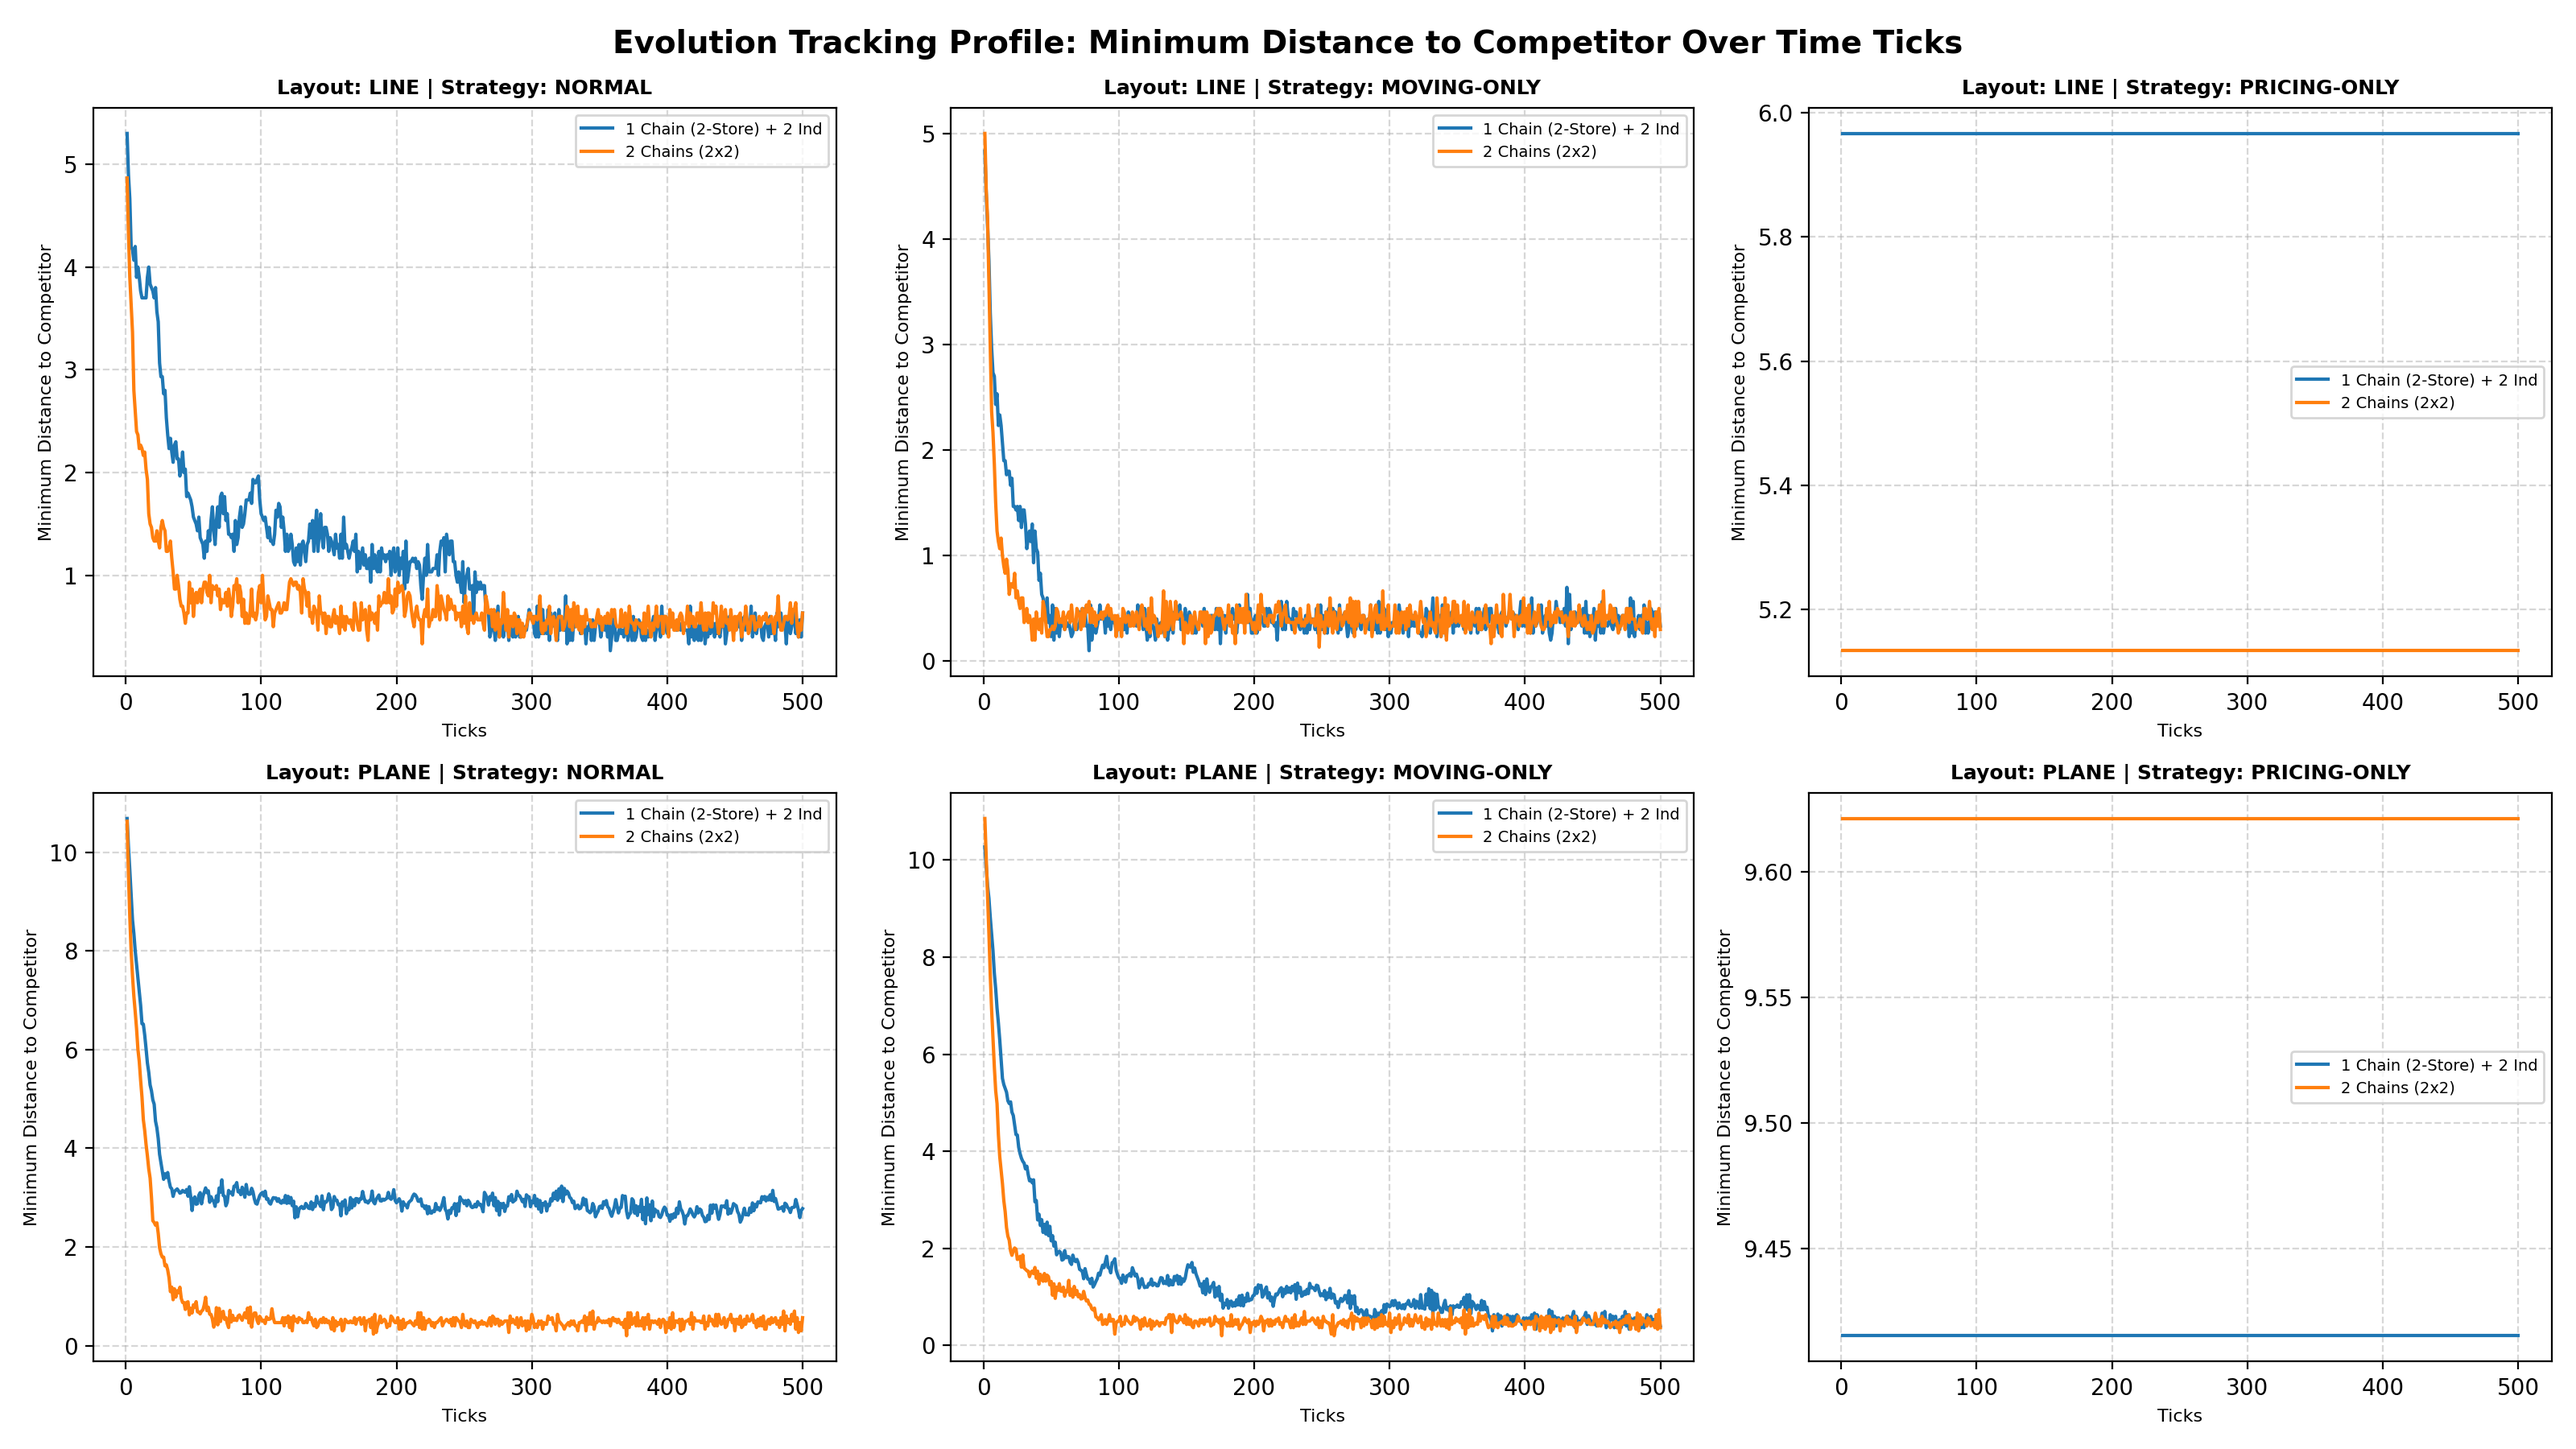
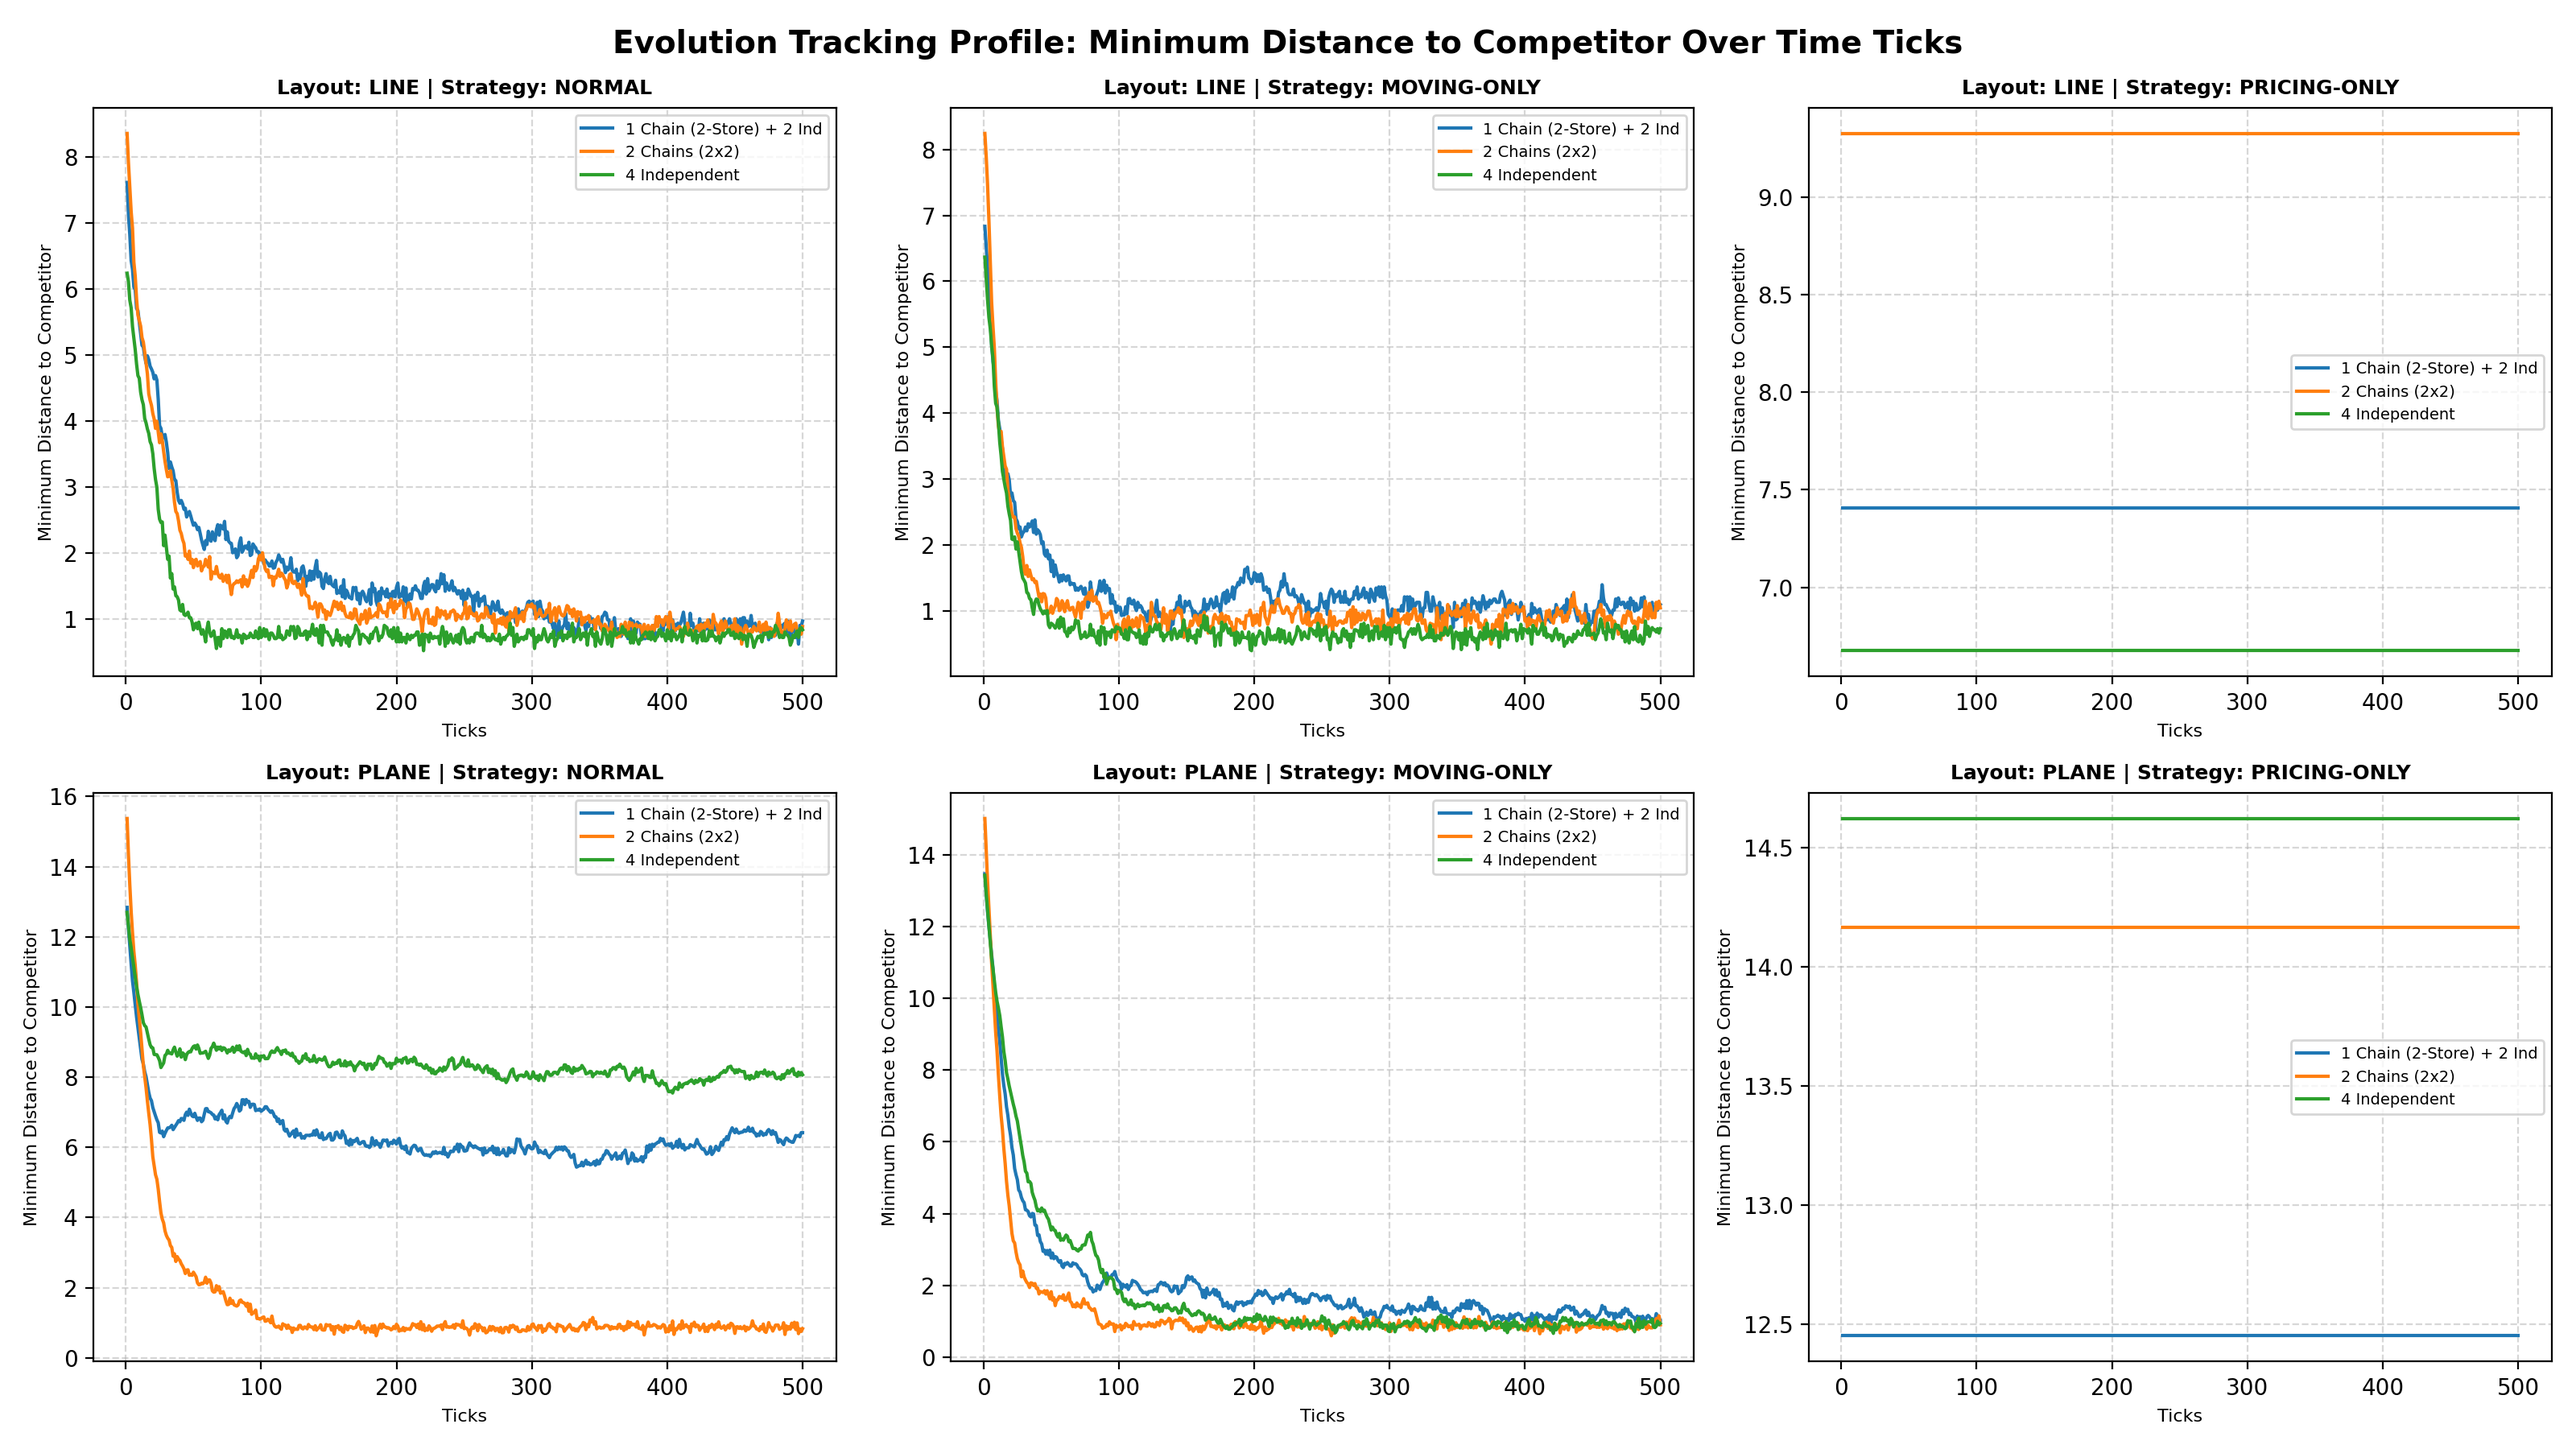
fix: update chain metrics to calculate the average distance for all stores to their nearest competitor

diff --git a/results/chart_generator_experiment2.py b/results/chart_generator_experiment2.py
@@ -10,7 +10,7 @@ os.makedirs(OUTPUT_DIRECTORY, exist_ok=True)
 
 LAYOUTS = ["line", "plane"]
 RULES = ["normal", "moving-only", "pricing-only"]
-CONFIGS = ["4 Independent", "1 Chain (2-Store) + 2 Ind", "2 Chains (2x2)"]
+CONFIGS = ["1 Chain (2-Store) + 2 Ind", "2 Chains (2x2)", "4 Independent"]
 
 # -----------------------------------------------------------------------------
 # PARSING UTILITIES
@@ -60,42 +60,47 @@ def compute_chain_metrics(row) -> tuple[float, float]:
     """Calculates intra-chain distance and minimum competitor proximity."""
     pos_map = parse_position(row["store-positions"])
     chain_groups = parse_chains(row["store-chain-ids"])
-    
-    if not chain_groups:
+
+    # Validate store id parsing.
+    store_ids = list(pos_map.keys())
+    if not store_ids:
         return np.nan, np.nan
-    
-    all_chain_stores = [sid for stores in chain_groups.values() for sid in stores]
-    hostile_stores = [sid for sid in pos_map.keys() if sid not in all_chain_stores]
-    
+
+    # Intra-chain distances
     intra_dists = []
-    min_comp_dist = float('inf')
-    
-    for chain_id, store_ids in chain_groups.items():
-        if len(store_ids) >= 2:
-            for i in range(len(store_ids)):
-                for j in range(i + 1, len(store_ids)):
-                    p1, p2 = pos_map[store_ids[i]], pos_map[store_ids[j]]
+    for chain_id, chain_store_ids in chain_groups.items():
+        if len(chain_store_ids) >= 2:
+            for i in range(len(chain_store_ids)):
+                for j in range(i + 1, len(chain_store_ids)):
+                    p1, p2 = pos_map[chain_store_ids[i]], pos_map[chain_store_ids[j]]
                     intra_dists.append(np.sqrt((p1[0]-p2[0])**2 + (p1[1]-p2[1])**2))
-                    
-        for s_id in store_ids:
-            p_curr = pos_map[s_id]
-            for h_id in hostile_stores:
-                p_hostile = pos_map[h_id]
-                dist = np.sqrt((p_curr[0]-p_hostile[0])**2 + (p_curr[1]-p_hostile[1])**2)
-                if dist < min_comp_dist:
-                    min_comp_dist = dist
-            for other_chain_id, other_store_ids in chain_groups.items():
-                if other_chain_id != chain_id:
-                    for o_id in other_store_ids:
-                        p_rival = pos_map[o_id]
-                        dist = np.sqrt((p_curr[0]-p_rival[0])**2 + (p_curr[1]-p_rival[1])**2)
-                        if dist < min_comp_dist:
-                            min_comp_dist = dist
+
+    # Map each store to its chain id (None for independent)
+    store_to_chain = {s: cid for cid, stores in chain_groups.items() for s in stores}
+
+    # For every store, compute distance to nearest competitor defined as ANY store
+    # that is not in the same chain. For independent stores (no chain id), competitors
+    # are all other stores.
+    nearest_comp_by_store = []
+    for s in list(pos_map.keys()):
+        p_s = pos_map[s]
+        same_chain = store_to_chain.get(s, None)
+
+        if same_chain is None:
+            competitors = [t for t in store_ids if t != s]
+        else:
+            competitors = [t for t in store_ids if t != s and store_to_chain.get(t, None) != same_chain]
+        assert len(competitors) != 0
+        
+        min_d = min(
+            np.sqrt((p_s[0]-pos_map[t][0])**2 + (p_s[1]-pos_map[t][1])**2) for t in competitors
+        )
+        nearest_comp_by_store.append(float(min_d))
 
     avg_intra = float(np.mean(intra_dists)) if intra_dists else np.nan
-    final_min_comp = float(min_comp_dist) if min_comp_dist != float('inf') else np.nan
-    
-    return avg_intra, final_min_comp
+    avg_min_comp = float(np.mean(nearest_comp_by_store)) if nearest_comp_by_store else np.nan
+
+    return avg_intra, avg_min_comp
 
 # -----------------------------------------------------------------------------
 # PLOTTING ENGINES
